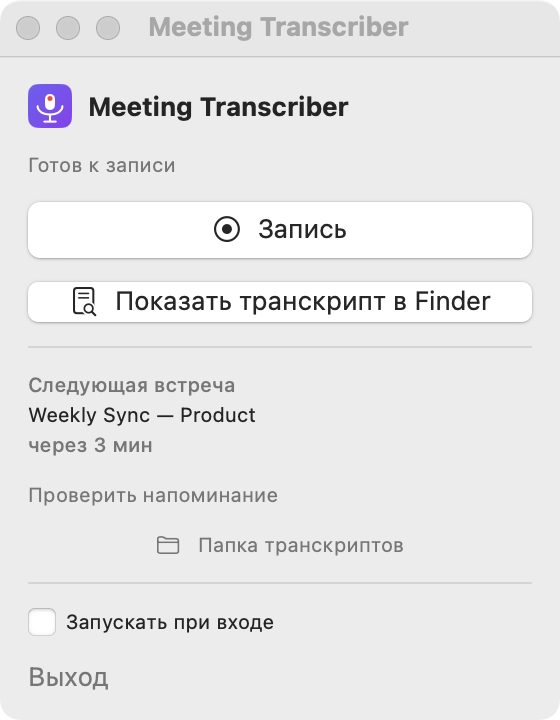
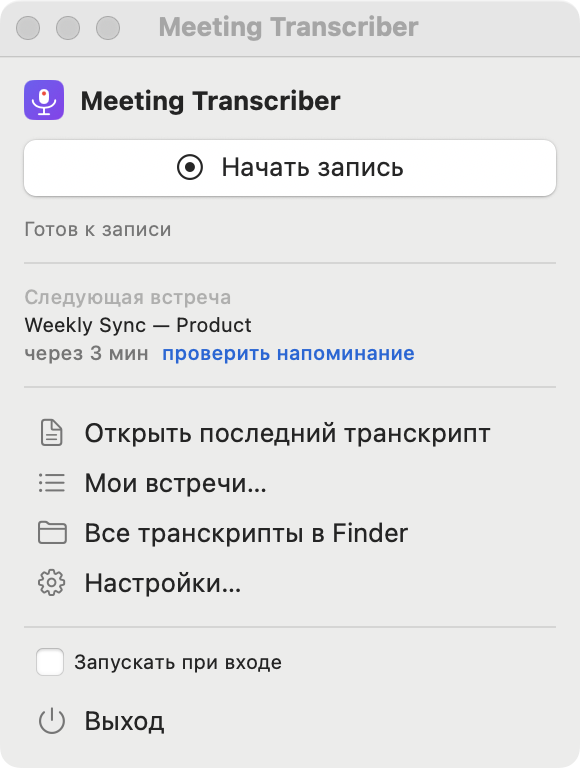
ux: переработанная панель меню + настраиваемая папка транскриптов

diff --git a/app/Sources/MeetingRecorder/App.swift b/app/Sources/MeetingRecorder/App.swift
@@ -295,11 +295,8 @@ enum TranscribeRunner {
         var isSuccess: Bool { if case .success = self { return true }; return false }
     }
 
-    /// Папка с готовыми транскриптами (человекочитаемая).
-    static var transcriptsDir: URL {
-        FileManager.default.homeDirectoryForCurrentUser
-            .appendingPathComponent("Documents/Транскрипты встреч")
-    }
+    /// Папка с готовыми транскриптами (человекочитаемая). Меняется в настройках.
+    static var transcriptsDir: URL { AppPaths.transcriptsDir }
 
     /// Запускает live_transcribe.py на время записи (читает растущие .caf).
     /// Возвращает процесс — на «Стоп» ему ставят маркер .stopped и ждут выхода.
@@ -387,84 +384,117 @@ enum TranscribeRunner {
     }
 }
 
+/// Однородная строка меню: иконка + название, кликается вся ширина.
+/// Раньше нижние пункты были разнокалиберными кнопками — из-за этого панель
+/// выглядела собранной из случайных частей, а «Настройки…» терялись в тексте.
+private struct MenuRow: View {
+    let title: String
+    let systemImage: String
+    var action: () -> Void
+
+    @State private var hovering = false
+
+    var body: some View {
+        Button(action: action) {
+            HStack(spacing: 8) {
+                Image(systemName: systemImage)
+                    .frame(width: 16)
+                    .foregroundStyle(.secondary)
+                Text(title)
+                Spacer(minLength: 0)
+            }
+            .padding(.horizontal, 6)
+            .padding(.vertical, 4)
+            .contentShape(Rectangle())
+            .background(hovering ? Color.primary.opacity(0.07) : .clear,
+                        in: RoundedRectangle(cornerRadius: 5))
+        }
+        .buttonStyle(.plain)
+        .onHover { hovering = $0 }
+    }
+}
+
 struct ContentView: View {
     @ObservedObject var model: AppModel
 
     var body: some View {
-        VStack(alignment: .leading, spacing: 12) {
+        VStack(alignment: .leading, spacing: 10) {
             HStack(spacing: 8) {
-                AppLogo(size: 22)
+                AppLogo(size: 20)
                 Text("Meeting Transcriber").font(.headline)
+                Spacer()
             }
 
-            HStack(spacing: 6) {
-                if model.bgJobs > 0 {
-                    ProgressView().controlSize(.small)
-                }
-                Text(model.status)
-                    .font(.caption)
-                    .foregroundStyle(.secondary)
-                    .fixedSize(horizontal: false, vertical: true)
-            }
-
-            // Кнопка НИКОГДА не блокируется фоновой расшифровкой — встречи стык в стык.
+            // Одно главное действие панели — и оно единственное акцентное.
+            // Фоновая расшифровка его НЕ блокирует: встречи бывают стык в стык.
             Button(action: model.toggleRecording) {
-                Label(model.isRecording ? "Стоп" : "Запись",
+                Label(model.isRecording ? "Остановить запись" : "Начать запись",
                       systemImage: model.isRecording ? "stop.fill" : "record.circle")
                     .frame(maxWidth: .infinity)
             }
             .controlSize(.large)
+            .buttonStyle(.borderedProminent)
+            .tint(model.isRecording ? .red : .accentColor)
 
-            if let dest = model.lastTranscript {
-                Button {
-                    NSWorkspace.shared.activateFileViewerSelecting([dest])
-                } label: {
-                    Label("Показать транскрипт в Finder", systemImage: "doc.text.magnifyingglass")
-                        .frame(maxWidth: .infinity)
-                }
+            // Статус — следствие действия, поэтому стоит ПОД кнопкой, а не над.
+            HStack(spacing: 6) {
+                if model.bgJobs > 0 { ProgressView().controlSize(.small) }
+                Text(model.status)
+                    .font(.caption).foregroundStyle(.secondary)
+                    .fixedSize(horizontal: false, vertical: true)
             }
 
             if let nm = model.nextMeeting {
                 Divider()
-                VStack(alignment: .leading, spacing: 2) {
-                    Text("Следующая встреча").font(.caption2).foregroundStyle(.secondary)
+                VStack(alignment: .leading, spacing: 1) {
+                    Text("Следующая встреча").font(.caption2).foregroundStyle(.tertiary)
                     Text(nm.title).font(.caption).lineLimit(1)
-                    Text(nm.startsInText).font(.caption2).foregroundStyle(.secondary)
+                    HStack(spacing: 6) {
+                        Text(nm.startsInText).font(.caption2).foregroundStyle(.secondary)
+                        Button("проверить напоминание") { model.testPopup() }
+                            .buttonStyle(.link).font(.caption2)
+                    }
                 }
-                Button("Проверить напоминание") { model.testPopup() }
-                    .buttonStyle(.borderless)
-                    .font(.caption)
             }
-
-            Button {
-                NSWorkspace.shared.open(TranscribeRunner.transcriptsDir)
-            } label: {
-                Label("Папка транскриптов", systemImage: "folder")
-                    .frame(maxWidth: .infinity)
-            }
-            .buttonStyle(.borderless)
-            .font(.caption)
 
             Divider()
+
+            // Все переходы — одинаковыми строками. «Последний транскрипт» тоже
+            // строка, а не вторая большая кнопка: раньше он визуально дублировал
+            // «Папку транскриптов», хотя открывает конкретный файл, а не папку.
+            VStack(alignment: .leading, spacing: 1) {
+                if let dest = model.lastTranscript {
+                    MenuRow(title: "Открыть последний транскрипт",
+                            systemImage: "doc.text") {
+                        NSWorkspace.shared.activateFileViewerSelecting([dest])
+                    }
+                }
+                MenuRow(title: "Мои встречи…", systemImage: "list.bullet") {
+                    model.openTranscripts()
+                }
+                MenuRow(title: "Все транскрипты в Finder", systemImage: "folder") {
+                    NSWorkspace.shared.open(AppPaths.transcriptsDir)
+                }
+                MenuRow(title: "Настройки…", systemImage: "gearshape") {
+                    model.openSettings()
+                }
+            }
+
+            Divider()
+
             Toggle("Запускать при входе", isOn: Binding(
                 get: { model.launchAtLogin },
                 set: { model.setLaunchAtLogin($0) }))
                 .toggleStyle(.checkbox)
                 .font(.caption)
+                .padding(.horizontal, 6)
 
-            Button("Мои встречи…") { model.openTranscripts() }
-                .buttonStyle(.borderless)
-                .font(.caption)
-
-            Button("Настройки…") { model.openSettings() }
-                .buttonStyle(.borderless)
-                .font(.caption)
-
-            Button("Выход") { NSApplication.shared.terminate(nil) }
-                .buttonStyle(.borderless)
+            MenuRow(title: "Выход", systemImage: "power") {
+                NSApplication.shared.terminate(nil)
+            }
         }
-        .padding(14)
-        .frame(width: 280)
+        .padding(12)
+        .frame(width: 290)
     }
 }
 

diff --git a/app/Sources/MeetingRecorder/Settings.swift b/app/Sources/MeetingRecorder/Settings.swift
@@ -111,8 +111,48 @@ enum CH {
 
 // MARK: - UI
 
+/// Строка выбора папки. Вынесена отдельно, потому что папок теперь две
+/// (записи и транскрипты), и дублировать одну и ту же вёрстку смысла нет.
+private struct FolderRow: View {
+    let title: String
+    let hint: String
+    let defaultPath: String
+    @Binding var path: String
+
+    private var shown: String { path.isEmpty ? defaultPath : path }
+
+    var body: some View {
+        VStack(alignment: .leading, spacing: 4) {
+            Text(title).font(.callout)
+            Text(shown).font(.caption).foregroundStyle(.secondary)
+                .textSelection(.enabled).lineLimit(1).truncationMode(.head)
+            HStack(spacing: 8) {
+                Button("Выбрать…") {
+                    let p = NSOpenPanel()
+                    p.canChooseDirectories = true
+                    p.canChooseFiles = false
+                    p.canCreateDirectories = true
+                    p.directoryURL = URL(fileURLWithPath: shown)
+                    if p.runModal() == .OK, let url = p.url { path = url.path }
+                }
+                Button("Открыть") {
+                    NSWorkspace.shared.open(URL(fileURLWithPath: shown))
+                }
+                if !path.isEmpty {
+                    Button("По умолчанию") { path = "" }
+                }
+                Spacer()
+            }
+            .controlSize(.small)
+            Text(hint).font(.caption2).foregroundStyle(.tertiary)
+        }
+        .padding(.vertical, 2)
+    }
+}
+
 struct SettingsView: View {
     @AppStorage(AppPaths.recordingsDirKey) private var recDir: String = ""
+    @AppStorage(AppPaths.transcriptsDirKey) private var txtDir: String = ""
     @State private var host = DBConfig.host
     @State private var user = DBConfig.user
     @State private var table = DBConfig.table
@@ -125,63 +165,47 @@ struct SettingsView: View {
     }
 
     var body: some View {
-        VStack(alignment: .leading, spacing: 16) {
-            GroupBox("Папка записей") {
-                VStack(alignment: .leading, spacing: 8) {
-                    Text(recPath).font(.caption).foregroundStyle(.secondary)
-                        .textSelection(.enabled).lineLimit(2)
-                    HStack {
-                        Button("Выбрать…", action: pickFolder)
-                        Button("Показать в Finder") {
-                            NSWorkspace.shared.open(URL(fileURLWithPath: recPath))
-                        }
-                        if !recDir.isEmpty {
-                            Button("Сбросить") { recDir = "" }
-                        }
-                    }
-                    if legacyHasSessions {
-                        Text("Старые записи остались в \(AppPaths.legacyRecordingsDir.path) — "
-                             + "перенеси их сюда, если нужны.")
-                            .font(.caption2).foregroundStyle(.orange)
-                    }
-                }.padding(4)
+        // Form/Section — стандартная для macOS группировка настроек;
+        // ручные VStack+GroupBox выглядят самодельно и разъезжаются по отступам.
+        Form {
+            Section("Где хранить") {
+                FolderRow(title: "Транскрипты",
+                          hint: "Готовый текст встреч — его читаете вы",
+                          defaultPath: AppPaths.defaultTranscriptsDir.path,
+                          path: $txtDir)
+                FolderRow(title: "Записи (аудио)",
+                          hint: "Исходный звук, весит гигабайты — нужен для перепрогона",
+                          defaultPath: AppPaths.defaultRecordingsDir.path,
+                          path: $recDir)
+                if legacyHasSessions {
+                    Label("Старые записи остались в \(AppPaths.legacyRecordingsDir.path)",
+                          systemImage: "exclamationmark.triangle")
+                        .font(.caption2).foregroundStyle(.orange)
+                }
             }
 
-            GroupBox("Выгрузка в корпоративную БД") {
-                VStack(alignment: .leading, spacing: 6) {
-                    LabeledContent("Хост") {
-                        TextField("clickhouse.internal", text: $host).textFieldStyle(.roundedBorder)
+            Section("Выгрузка в общую базу") {
+                TextField("Хост", text: $host, prompt: Text("clickhouse.internal"))
+                TextField("Пользователь", text: $user, prompt: Text("логин"))
+                SecureField("Пароль", text: $password, prompt: Text("хранится в Keychain"))
+                TextField("Таблица", text: $table, prompt: Text("схема.таблица"))
+                HStack {
+                    Button("Сохранить и проверить", action: saveAndCheck)
+                        .disabled(checking)
+                    if checking { ProgressView().controlSize(.small) }
+                    if let r = checkResult {
+                        Text(r).font(.caption)
+                            .foregroundStyle(r.hasPrefix("✓") ? .green : .red)
+                            .lineLimit(2)
                     }
-                    LabeledContent("Пользователь") {
-                        TextField("логин", text: $user).textFieldStyle(.roundedBorder)
-                    }
-                    LabeledContent("Пароль") {
-                        SecureField("хранится в Keychain", text: $password)
-                            .textFieldStyle(.roundedBorder)
-                    }
-                    LabeledContent("Таблица") {
-                        TextField("схема.таблица", text: $table)
-                            .textFieldStyle(.roundedBorder)
-                    }
-                    HStack {
-                        Button("Сохранить и проверить", action: saveAndCheck)
-                            .disabled(checking)
-                        if checking { ProgressView().controlSize(.small) }
-                        if let r = checkResult {
-                            Text(r).font(.caption)
-                                .foregroundStyle(r.hasPrefix("✓") ? .green : .red)
-                                .lineLimit(2)
-                        }
-                    }
-                }.padding(4)
+                }
+                Text("Ничего не выгружается само — только встречи, которые вы отметите "
+                     + "в «Мои встречи…».")
+                    .font(.caption2).foregroundStyle(.secondary)
             }
-
-            Text("Транскрипты не выгружаются автоматически — только те встречи, "
-                 + "которые ты сам отметишь.")
-                .font(.caption2).foregroundStyle(.secondary)
         }
-        .padding(16)
-        .frame(width: 460)
+        .formStyle(.grouped)
+        .frame(width: 460, height: 640)
     }
 
     private var legacyHasSessions: Bool {

diff --git a/app/Sources/MeetingRecorder/AppPaths.swift b/app/Sources/MeetingRecorder/AppPaths.swift
@@ -72,5 +72,24 @@ enum AppPaths {
         URL(fileURLWithPath: "\(projectRoot)/mac-capture/recordings")
     }
 
+    // MARK: - Куда складывать готовые транскрипты
+    //
+    // Это ОТДЕЛЬНАЯ от записей папка: аудио весит гигабайты и нужно редко,
+    // а транскрипты человек читает постоянно и хранит рядом с рабочими файлами.
+
+    static let transcriptsDirKey = "transcriptsDir"
+
+    static var defaultTranscriptsDir: URL {
+        FileManager.default.homeDirectoryForCurrentUser
+            .appendingPathComponent("Documents/Транскрипты встреч")
+    }
+
+    static var transcriptsDir: URL {
+        if let p = UserDefaults.standard.string(forKey: transcriptsDirKey), !p.isEmpty {
+            return URL(fileURLWithPath: (p as NSString).expandingTildeInPath)
+        }
+        return defaultTranscriptsDir
+    }
+
     static func script(_ name: String) -> String { "\(projectRoot)/\(name)" }
 }